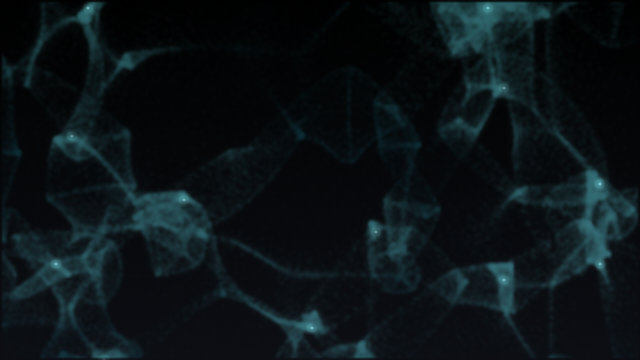
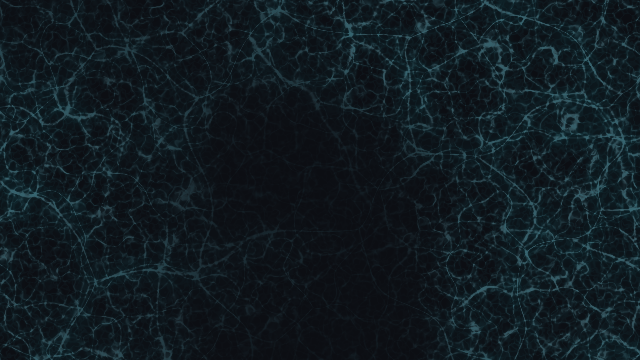
Cosmic web: sharp filaments from moving cell edges on several scales, drawn on the video card, instead of the gas simulation; the threads slowly change their shape

diff --git a/effects/cosmic-web/index.js b/effects/cosmic-web/index.js
@@ -1,4 +1,4 @@
-// Cosmic web (simai.effect 1.1.0; dark scheme only): a dark gas gathers into filaments and nodes, stars light up in the nodes, and bubbles of light grow until the web is lit.
+// Cosmic web (simai.effect 1.1.0; dark scheme only): fine, sharp filaments fill the area round dark voids and slowly change their shape.
 //
 // The lifecycle is the catalogue template's: one canvas in the host, devicePixelRatio capped at 2,
 // a seeded scene (the same picture on every mount at the defaults), one still frame for reduced
@@ -45,144 +45,139 @@ function readTones(host, scheme) {
   return tones;
 }
 
-// The cosmic web: a dark, nearly even gas gathers along the flows of a random field; where the flows
-// cross, filaments and nodes form by themselves (the Zel'dovich approximation of how matter clumps).
-// In the densest nodes the first stars light up, and round them bubbles of light grow and merge until
-// the whole web is lit. Then it fades, and a new web begins. The pointer is a mass that draws matter
-// to itself; a click lights a new star.
-const PERIOD = 44;
+// The cosmic web: fine, sharp filaments on several scales fill the area, round dark voids. They are
+// the edges between cells whose points slowly move, so the threads part, join and find a new shape.
+// Drawn on the video card, sharp at any size; without one it stays a still picture.
+// The pointer lights the web round it; a click sends a ring of light through it.
+const FRAGMENT = `precision highp float;
+uniform vec2 R; uniform float T, S, K, O, V; uniform vec3 G, W, L, H, M; uniform vec3 P[4];
+const mat2 Q = mat2(.8, .6, -.6, .8);
+float h(vec2 p) { p = fract(p * vec2(123.34, 456.21)); p += dot(p, p + 45.32); return fract(p.x * p.y); }
+float n(vec2 p) {
+  vec2 i = floor(p), f = fract(p); f = f * f * f * (f * (f * 6. - 15.) + 10.);
+  return mix(mix(h(i), h(i + vec2(1, 0)), f.x), mix(h(i + vec2(0, 1)), h(i + vec2(1, 1)), f.x), f.y);
+}
+vec2 g2(vec2 p) { return vec2(h(p), h(p + 17.3)); }
+// The edge between two cells: near zero on a thread. The points of the cells move, so the threads do.
+float edge(vec2 p, float t) {
+  vec2 i = floor(p), f = fract(p);
+  float a = 9., b = 9.;
+  for (float y = -1.; y < 2.; y += 1.) for (float x = -1.; x < 2.; x += 1.) {
+    vec2 c = vec2(x, y), o = g2(i + c), r = c + .5 + .42 * sin(t + 6.283 * o) - f;
+    float d = dot(r, r);
+    if (d < a) { b = a; a = d; } else if (d < b) b = d;
+  }
+  return sqrt(b) - sqrt(a);
+}
+void main() {
+  vec2 c = vec2(gl_FragCoord.x, R.y - gl_FragCoord.y), p = c / S;
+  float a = .8, b = 1., line = 0., haze = 0., t = T * .16;
+  vec2 q = p + 137.;
+  for (float i = 0.; i < 6.; i += 1.) {
+    if (i >= O) break;
+    // Each layer's threads wander a little, so no thread runs straight.
+    vec2 w = q + (vec2(n(q * 2.3), n(q * 2.3 + 9.)) - .5) * .5;
+    float e = edge(w, t * (1. + i * .35) + i * 3.);
+    line += a * (1. - smoothstep(.0, .022 * b, e));
+    haze += a * (1. - smoothstep(.0, .35, e));
+    q = Q * q * 2.13 + 11.;
+    b *= 2.13;
+    a *= .84;
+  }
+  float gap = smoothstep(V - .22, V + .22, n(p * .55 - T * .012) * .65 + n(p * 1.4 + 3. + T * .017) * .35);
+  float glow = 0.;
+  if (M.z > 0.) glow += M.z * exp(-dot(c - M.xy, c - M.xy) / (S * S * 1.2));
+  for (int i = 0; i < 4; i += 1) if (P[i].z >= 0.) {
+    float d = length(c - P[i].xy) - P[i].z * S * 2.2;
+    glow += exp(-d * d / (S * S * .15)) * max(0., 1. - P[i].z / 3.);
+  }
+  vec3 col = G + (W * haze * .2 * gap + L * pow(min(line, 1.4), 1.7) * (.3 + .7 * gap) * .42 + H * pow(min(line, 1.), 5.) * gap * .25) * K * (1. + glow * 1.4);
+  gl_FragColor = vec4(col, 1.);
+}`;
 const SCENE = {
-  home: 'dark', seed: 71, fresh: true, start: PERIOD * 0.72, reseed: ['density', 'scale'],
+  home: 'dark', seed: 71, fresh: true, start: 30,
   tones: (read) => {
     const r = (name, tone, hex) => read(`--sf-${name}-${tone}`, hex);
     return {
-      ground: r('neutral', 4, '#0c0e13'), deep: r('neutral', 0, '#000000'),
-      cyan: {web: mixc(r('primary', 50, '#0074ec'), r('success', 60, '#3ea05a'), 0.45), lit: mixc(r('primary', 70, '#7aabff'), r('success', 70, '#4cbb6f'), 0.45), hot: r('neutral', 98, '#faf9fe')},
-      fire: {web: r('warning', 30, '#6f3800'), lit: r('warning', 70, '#f19d47'), hot: r('warning', 95, '#ffeee1')},
-      theme: {web: r('primary', 40, '#005bbe'), lit: r('primary', 70, '#7aabff'), hot: r('primary', 95, '#ecf0ff')},
+      ground: r('neutral', 4, '#0c0e13'),
+      cyan: {web: mixc(r('primary', 40, '#005bbe'), r('success', 40, '#006d34'), 0.5), lit: mixc(r('primary', 60, '#4d8eff'), r('success', 60, '#3ea05a'), 0.45), hot: r('neutral', 98, '#faf9fe')},
+      fire: {web: r('warning', 30, '#6f3800'), lit: r('warning', 60, '#d1872c'), hot: r('warning', 95, '#ffeee1')},
+      theme: {web: r('primary', 30, '#00458f'), lit: r('primary', 70, '#7aabff'), hot: r('primary', 95, '#ecf0ff')},
     };
   },
   setup(env) {
-    const {w, h, values} = env;
-    const cols = Math.max(1, Math.ceil(w / 2)), rows = Math.max(1, Math.ceil(h / 2));
-    const sheet = () => new OffscreenCanvas(cols, rows);
-    const st = {cols, rows, rho: new Float32Array(cols * rows), soft: new Float32Array(cols * rows), image: new ImageData(cols, rows), web: sheet(), dim: sheet(), lit: sheet(), mask: sheet(), glow: new OffscreenCanvas(Math.ceil(cols / 3), Math.ceil(rows / 3)), cycle: null, extra: [], pull: 0};
-    st.px = new Uint32Array(st.image.data.buffer);
-    // Density (in sixteenths of the even gas) to a white pixel's opacity, worked out once.
-    st.light = Uint32Array.from({length: 512}, (_, i) => ((170 * (1 - Math.exp(-0.15 * (i / 16) ** 1.35))) << 24 | 0xffffff) >>> 0);
-    // As fine as the density asks, but no more than about 90 000 grains on any area.
-    st.gap = Math.max(2.8 - values.density / 100 * 1.4, Math.sqrt(w * h * 1.6 / 90000));
-    st.L = Math.min(w, h * 1.7) * (0.1 + values.scale / 100 * 0.6);
+    const ratio = env.ctx.canvas.width / env.w, st = {rings: [], pull: 0};
+    env.gl ??= card();
+    if (env.gl) { env.gl.gl.canvas.width = env.ctx.canvas.width; env.gl.gl.canvas.height = env.ctx.canvas.height; }
+    st.ratio = ratio;
+    st.cell = (40 + env.values.scale * 3) * ratio;
+    st.octaves = 3 + Math.round(env.values.density / 100 * 3);
     return st;
   },
-  click(env, x, y) { const st = env.state; st.extra.push({x, y, t: st.t ?? 0}); },
+  click(env, x, y) { const st = env.state; st.rings.push({x: x * st.ratio, y: y * st.ratio, t: st.t ?? 0}); st.rings = st.rings.slice(-4); },
   draw(env, t) {
-    const {ctx, w, h, tones, state: st, values, pointer} = env;
-    const k = values.intensity / 100, P = tones[values.palette] ?? tones.cyan;
+    const {ctx, w, h, tones, state: st, values, pointer} = env, k = values.intensity / 100, P = tones[values.palette] ?? tones.cyan, g = env.gl;
     st.t = t;
-    const cycle = Math.floor(t / PERIOD), u = t / PERIOD - cycle;
-    if (cycle !== st.cycle) { st.cycle = cycle; st.extra = []; lay(env, st, 71 + env.salt + cycle * 13); }
-    // Gravity's clock: first threads already showing, quick at first, then a slow thickening. The cycle fades in and out.
-    const D = 0.3 + 0.7 * smooth(clamp(u / 0.6, 0, 1)) + Math.max(0, u - 0.6) * 0.15, fade = Math.min(1, u / 0.05, (1 - u) / 0.07);
-    st.pull += ((pointer.on ? 1 : 0) - st.pull) * 0.06;
-    const {rho, n, qx, qy, dx, dy, cols, rows, px} = st, mx = pointer.x * w, my = pointer.y * h, reach = st.L * 0.5, pull = st.pull * 0.45;
-    rho.fill(0);
-    for (let i = 0; i < n; i += 1) {
-      let x = qx[i] + dx[i] * D, y = qy[i] + dy[i] * D;
-      if (pull > 0.01) {
-        const ax = mx - x, ay = my - y, d = Math.abs(ax) + Math.abs(ay);
-        if (d < reach) { const g = pull * (1 - d / reach); x += ax * g; y += ay * g; }
-      }
-      if (x < 0 || y < 0 || x >= w || y >= h) continue;
-      rho[(y >> 1) * cols + (x >> 1)] += 1;
-    }
-    // Each cell shares with its neighbours, so the gas has no grain.
-    const soft = st.soft;
-    for (let y = 1; y < rows - 1; y += 1) for (let x = 1, o = y * cols + 1; x < cols - 1; x += 1, o += 1) soft[o] = (rho[o] * 4 + (rho[o - 1] + rho[o + 1] + rho[o - cols] + rho[o + cols]) * 2 + rho[o - cols - 1] + rho[o - cols + 1] + rho[o + cols - 1] + rho[o + cols + 1]) / 16;
-    // Density to light: a thin gas stays faint, a filament is bright.
-    const scale = 16 / (4 / (st.gap * st.gap)), light = st.light;
-    for (let i = 0; i < px.length; i += 1) { const v = soft[i] * scale | 0; px[i] = light[v > 511 ? 511 : v]; }
-    st.web.getContext('2d').putImageData(st.image, 0, 0);
-    const tint = (sheet, colour) => {
-      const c = sheet.getContext('2d');
-      c.globalCompositeOperation = 'copy'; c.drawImage(st.web, 0, 0);
-      c.globalCompositeOperation = 'source-in'; c.fillStyle = rgba(colour); c.fillRect(0, 0, cols, rows);
-    };
-    tint(st.dim, P.web); tint(st.lit, P.lit);
-    // Bubbles of light round the stars: they grow from their birth and merge.
-    const m = st.mask.getContext('2d'), stars = [];
-    m.clearRect(0, 0, cols, rows);
-    const bubble = (x, y, r, a) => {
-      const g = m.createRadialGradient(x / 2, y / 2, 0, x / 2, y / 2, r / 2);
-      g.addColorStop(0, `rgba(0,0,0,${a})`); g.addColorStop(0.6, `rgba(0,0,0,${a * 0.75})`); g.addColorStop(1, 'rgba(0,0,0,0)');
-      m.fillStyle = g; m.fillRect(x / 2 - r / 2, y / 2 - r / 2, r, r);
-    };
-    for (const node of st.nodes) {
-      const age = u - node.born;
-      if (age <= 0) continue;
-      const x = node.x, y = node.y;
-      bubble(x, y, st.L * (0.12 + age * 2.6), 1);
-      stars.push([x, y, Math.min(1, age * 30)]);
-    }
-    for (const one of st.extra) { const age = (t - one.t) / PERIOD; bubble(one.x, one.y, st.L * (0.12 + age * 2.6), 1); stars.push([one.x, one.y, Math.min(1, age * 30)]); }
-    const l = st.lit.getContext('2d');
-    l.globalCompositeOperation = 'destination-in'; l.drawImage(st.mask, 0, 0);
-    // The picture: the dark web, the lit part over it, a soft bloom, the stars.
-    const g = ctx.createLinearGradient(0, 0, 0, h);
-    g.addColorStop(0, rgba(tones.deep)); g.addColorStop(1, rgba(tones.ground));
-    ctx.globalCompositeOperation = 'source-over'; ctx.globalAlpha = 1;
-    ctx.fillStyle = g; ctx.fillRect(0, 0, w, h);
-    ctx.imageSmoothingQuality = 'high';
-    ctx.globalCompositeOperation = 'lighter';
-    ctx.globalAlpha = fade * (0.2 + k * 0.3); ctx.drawImage(st.dim, 0, 0, w, h);
-    ctx.globalAlpha = fade * (0.12 + k * 0.33); ctx.drawImage(st.lit, 0, 0, w, h);
-    const b = st.glow.getContext('2d');
-    b.globalCompositeOperation = 'copy'; b.imageSmoothingQuality = 'high'; b.drawImage(st.lit, 0, 0, st.glow.width, st.glow.height);
-    ctx.globalAlpha = fade * k * 0.3; ctx.drawImage(st.glow, 0, 0, w, h);
-    ctx.globalAlpha = 1;
-    for (const [x, y, a] of stars) {
-      const r = Math.max(5, st.L * 0.035), s = ctx.createRadialGradient(x, y, 0, x, y, r);
-      s.addColorStop(0, rgba(P.hot, a * fade * 0.9 * k)); s.addColorStop(0.2, rgba(P.lit, a * fade * 0.4 * k)); s.addColorStop(1, rgba(P.lit, 0));
-      ctx.fillStyle = s; ctx.fillRect(x - r, y - r, r * 2, r * 2);
-    }
+    st.pull += ((pointer.on ? 0.9 : 0) - st.pull) * 0.08;
+    if (!g) { flat(env, st, P, k); return; }
+    const {gl, u} = g, unit = (c) => c.map((v) => v / 255);
+    gl.viewport(0, 0, gl.canvas.width, gl.canvas.height);
+    gl.uniform2f(u.R, gl.canvas.width, gl.canvas.height);
+    gl.uniform1f(u.T, t + env.salt % 1000);
+    gl.uniform1f(u.S, st.cell);
+    // More threads, or finer ones, light more of the area: each is dimmer.
+    gl.uniform1f(u.K, (0.13 + k * 0.35) * (5 / st.octaves) ** 1.5 * Math.min(1, st.cell / st.ratio / 160) ** 0.3);
+    gl.uniform1f(u.O, st.octaves);
+    gl.uniform1f(u.V, 0.42 - values.density / 100 * 0.08);
+    gl.uniform3fv(u.G, unit(tones.ground)); gl.uniform3fv(u.W, unit(P.web)); gl.uniform3fv(u.L, unit(P.lit)); gl.uniform3fv(u.H, unit(P.hot));
+    gl.uniform3f(u.M, pointer.x * w * st.ratio, pointer.y * h * st.ratio, st.pull);
+    const rings = new Float32Array(12).fill(-1);
+    st.rings.forEach((one, i) => { rings[i * 3] = one.x; rings[i * 3 + 1] = one.y; rings[i * 3 + 2] = (t - one.t) * 0.9; });
+    gl.uniform3fv(u.P, rings);
+    gl.drawArrays(gl.TRIANGLES, 0, 3);
+    ctx.globalCompositeOperation = 'copy';
+    const frame = gl.canvas.transferToImageBitmap();
+    ctx.drawImage(frame, 0, 0, w, h);
+    frame.close();
     ctx.globalCompositeOperation = 'source-over';
   },
 };
-// A new web: a field of three scales on a coarse lattice, each grain of gas moved along its slope;
-// the densest places where they end up are where the stars will be.
-function lay(env, st, seed) {
-  const {w, h} = env, random = rng(seed), L = st.L, gap = st.gap, margin = L * 0.6, ox = random() * 1000, oy = random() * 1000;
-  const cell = 6, lw = Math.ceil((w + margin * 2) / cell) + 3, lh = Math.ceil((h + margin * 2) / cell) + 3, phi = new Float32Array(lw * lh);
-  for (let j = 0; j < lh; j += 1) for (let i = 0; i < lw; i += 1) {
-    const x = i * cell / L + ox, y = j * cell / L + oy;
-    phi[j * lw + i] = noise2(x, y) + 0.5 * noise2(x * 2.1 + 7, y * 2.1 + 3) + 0.25 * noise2(x * 4.3 + 1, y * 4.3 + 9);
+// The video card's side: one program on its own canvas, kept for the life of the area.
+function card() {
+  const canvas = new OffscreenCanvas(1, 1), gl = canvas.getContext('webgl', {antialias: false, alpha: false, powerPreference: 'low-power'});
+  if (!gl) return null;
+  const shader = (type, code) => { const s = gl.createShader(type); gl.shaderSource(s, code); gl.compileShader(s); return s; };
+  const program = gl.createProgram();
+  gl.attachShader(program, shader(gl.VERTEX_SHADER, 'attribute vec2 a; void main() { gl_Position = vec4(a, 0., 1.); }'));
+  gl.attachShader(program, shader(gl.FRAGMENT_SHADER, FRAGMENT));
+  gl.linkProgram(program);
+  if (!gl.getProgramParameter(program, gl.LINK_STATUS)) return null;
+  gl.useProgram(program);
+  gl.bindBuffer(gl.ARRAY_BUFFER, gl.createBuffer());
+  gl.bufferData(gl.ARRAY_BUFFER, new Float32Array([-1, -1, 3, -1, -1, 3]), gl.STATIC_DRAW);
+  const a = gl.getAttribLocation(program, 'a');
+  gl.enableVertexAttribArray(a);
+  gl.vertexAttribPointer(a, 2, gl.FLOAT, false, 0, 0);
+  const u = {};
+  for (const name of ['R', 'T', 'S', 'K', 'O', 'V', 'G', 'W', 'L', 'H', 'M', 'P']) u[name] = gl.getUniformLocation(program, name);
+  return {gl, u};
+}
+// Without a video card: the same kind of web as one still picture, drawn once in a small buffer.
+function flat(env, st, P, k) {
+  const {ctx, w, h, tones} = env;
+  if (!st.picture) {
+    const cols = Math.ceil(w / 3), rows = Math.ceil(h / 3), image = new ImageData(cols, rows), cell = st.cell / st.ratio / 3;
+    for (let y = 0; y < rows; y += 1) for (let x = 0; x < cols; x += 1) {
+      let a = 0.5, s = 0, weight = 1, px = x / cell + noise2(x / cell, y / cell), py = y / cell + noise2(y / cell + 7, x / cell);
+      for (let i = 0; i < st.octaves; i += 1) { const r = (1 - Math.abs(2 * noise2(px, py) - 1)) ** 2; s += a * r * weight; weight = clamp(r * 1.7, 0, 1); px = px * 1.62 - py * 1.22; py = px * 0.4 + py * 1.62; a *= 0.58; }
+      const c = mixc(mixc(tones.ground, P.web, smooth(clamp((s - 0.12) / 0.5, 0, 1)) * (0.25 + k * 0.6)), P.lit, smooth(clamp((s - 0.42) / 0.53, 0, 1)) ** 2.2 * (0.25 + k * 0.6)), o = (y * cols + x) * 4;
+      image.data[o] = c[0]; image.data[o + 1] = c[1]; image.data[o + 2] = c[2]; image.data[o + 3] = 255;
+    }
+    st.picture = new OffscreenCanvas(cols, rows);
+    st.picture.getContext('2d').putImageData(image, 0, 0);
   }
-  const n = Math.ceil((w + margin * 2) / gap) * Math.ceil((h + margin * 2) / gap);
-  if (st.n !== n) { st.n = n; st.qx = new Float32Array(n); st.qy = new Float32Array(n); st.dx = new Float32Array(n); st.dy = new Float32Array(n); }
-  const per = Math.ceil((w + margin * 2) / gap), push = L * L / (2 * cell) * 0.24;
-  for (let i = 0; i < n; i += 1) {
-    const x = (i % per + random()) * gap, y = (Math.floor(i / per) + random()) * gap;
-    const fx = x / cell, fy = y / cell, a = Math.min(lw - 3, Math.max(1, Math.floor(fx))), b = Math.min(lh - 3, Math.max(1, Math.floor(fy))), tx = fx - a, ty = fy - b;
-    // The slope at a lattice point, blended between the four round the grain.
-    const slope = (o, step) => phi[o + step] - phi[o - step];
-    const at = (step) => mix(mix(slope(b * lw + a, step), slope(b * lw + a + 1, step), tx), mix(slope((b + 1) * lw + a, step), slope((b + 1) * lw + a + 1, step), tx), ty);
-    st.qx[i] = x - margin; st.qy[i] = y - margin;
-    st.dx[i] = -at(1) * push; st.dy[i] = -at(lw) * push;
-  }
-  // Where the matter ends up: the densest cells, kept apart from each other.
-  const size = 16, gw = Math.ceil(w / size), gh = Math.ceil(h / size), count = new Float32Array(gw * gh);
-  for (let i = 0; i < n; i += 1) {
-    const x = st.qx[i] + st.dx[i], y = st.qy[i] + st.dy[i];
-    if (x >= 0 && y >= 0 && x < w && y < h) count[Math.floor(y / size) * gw + Math.floor(x / size)] += 1;
-  }
-  const order = Array.from(count.keys()).sort((p, q) => count[q] - count[p]), nodes = [], apart = L * 0.32, most = 12 + Math.round(w * h / 60000);
-  for (const c of order) {
-    const x = (c % gw + 0.5) * size, y = (Math.floor(c / gw) + 0.5) * size;
-    if (nodes.some((one) => Math.hypot(one.x - x, one.y - y) < apart)) continue;
-    nodes.push({x, y, born: 0.5 + nodes.length / most * 0.32});
-    if (nodes.length >= most) break;
-  }
-  st.nodes = nodes;
+  ctx.imageSmoothingQuality = 'high';
+  ctx.drawImage(st.picture, 0, 0, w, h);
 }
 
 export function mount(host, settings, context = {}) {
@@ -306,6 +301,7 @@ export function mount(host, settings, context = {}) {
     pause() { paused = true; stop(); },
     resume() { paused = false; schedule(); },
     destroy() {
+      env.gl?.gl.getExtension('WEBGL_lose_context')?.loseContext();
       stop();
       sizes.disconnect();
       screen.disconnect();

diff --git a/docs/STATUS.md b/docs/STATUS.md
@@ -41,6 +41,6 @@ Beyond those, the core ships the standard, SF.Effects, the kit, the segmented Bu
 
 ## Effects
 
-There are 34 effects: 19 draw both schemes, 13 dark only and 2 light only. On 2026-10-30 `cosmic-web` («Космическая паутина») came in at the owner's idea: gas gathers into filaments by the Zel'dovich approximation, stars light up in the nodes and bubbles of light merge, in a 44-second cycle; own code, nothing from the Lumina simulation it was inspired by. On 2026-10-30 `digital-rain` («Цифровой дождь») came in at the owner's idea: columns of glyphs running down a dark screen in three depths, the text from the list glyph tide and text flow share, four palettes; `glyph-tide` and `text-flow` got that shared list the same day. On 2026-10-30 `rain-glass` became a street of lights out of focus behind the glass (lamps, neon bars that shift colour and flicker, a crossing whose traffic light stops and lets the cars go, streaks on the wet road), with two views (street, down at the road) and four palettes (blue, neon, amber, monochrome), rain outside, drops that gather and run, and fog that comes back where a finger wipes it; its earlier version 2.3.0 stays beside it as `rain-glass-classic` for comparison until the owner chooses. Four came in on 2026-10-29 from the owner's lists of physics and chemistry ideas: `chladni` (sand gathering on the still lines of a singing plate; the note changes every few seconds), `bz-waves` («Химические волны», rings and spirals of the Belousov–Zhabotinsky reaction in Barkley's model), `cloud-chamber` (particle tracks flashing in and melting away in mist; dark only) and `benard-cells` (convection cells like a honeycomb, flakes running from each centre to the rim). The same day `murmuration` gained a flock size setting and a bigger flock by default, and `confetti` falls slower, with fewer pieces turning more gently. `confetti` (popper confetti falling from above; a press fires a popper upwards) and `murmuration` (a flock of starlings moving as one; the pointer is a falcon, a click startles them) came in on 2026-10-29 at the owner's request. In the seventh review `paper-facets` gained a dark scheme and a new sheet on each load, `rain-glass` a darker road, lamps that fade with distance and three options (a traffic light that tints the road, a blinking neon sign, rare lightning), `fabric-grid` a body that grows heavier while the button is held, `particle-shapes` four gas motions (Brownian, sand wind, vortex, snowfall), and `sand-picture` solid colour bands on rounded dunes. In the sixth review `sand-picture` was rebuilt after a real sand picture (sand runs down from above in streams onto low dunes of the theme's main and text colours, and the picture sinks slowly), `fabric-grid` lost its sun and planets for a grid edge to edge with waves of its own, `paper-facets` gained a facet shimmer that the pointer quickens, `watercolor` lays its stains in a new order on each load (a still frame keeps the seeded one), a new text in `particle-shapes` gathers at once, and `rain-glass` gained rows of street lamps (warm, white, mixed or none). In the fourth review `sand-picture` came in, `signals` became `world-routes` («Маршруты мира», signals or planes between the capitals), `star-flight` gained a throttle and warp on click and hold, `fabric-grid` became a sun with planets, `particle-shapes` returned to its first cycle with Brownian motion, `aurora-curtain` gained a contrast setting and `rain-glass` a traffic setting. In the second review `embers`, `blinds`, `origami`, `dust-beam` and `relief-wave` were dropped, and `signals`, `watercolor`, `fabric-grid`, `blueprint` and `particle-shapes` gained clicks and press-drags. Thirteen came in on 2026-10-28 from the owner's list of ideas; `wind-lines`, `deep-ocean` and `nebula-mesh` were dropped, `mist-gradient` became the two-scheme «Цветная дымка», and `rain-glass` became a fogged window. `star-flight` and `text-flow` come from the Larena sign-in picture (owner, 2026-10-28); `liquid-chrome` was removed the same day. `constellation-net` is dark only (owner, 2026-10-28: a light starry sky reads as a mistake). `ink-threads`, `foam-cells` and `guilloche` were removed (owner, 2026-10-19). Schemes are in the manifests; the order, descriptions and tags are in `effects/policy.json`; the per-effect kit results are in `catalogue/kit.json`.
+There are 34 effects: 19 draw both schemes, 13 dark only and 2 light only. On 2026-10-30 `cosmic-web` («Космическая паутина») came in at the owner's idea: sharp ridged filaments on the video card that slowly change their shape, a still picture without one; own code, nothing from the Lumina simulation it was inspired by. On 2026-10-30 `digital-rain` («Цифровой дождь») came in at the owner's idea: columns of glyphs running down a dark screen in three depths, the text from the list glyph tide and text flow share, four palettes; `glyph-tide` and `text-flow` got that shared list the same day. On 2026-10-30 `rain-glass` became a street of lights out of focus behind the glass (lamps, neon bars that shift colour and flicker, a crossing whose traffic light stops and lets the cars go, streaks on the wet road), with two views (street, down at the road) and four palettes (blue, neon, amber, monochrome), rain outside, drops that gather and run, and fog that comes back where a finger wipes it; its earlier version 2.3.0 stays beside it as `rain-glass-classic` for comparison until the owner chooses. Four came in on 2026-10-29 from the owner's lists of physics and chemistry ideas: `chladni` (sand gathering on the still lines of a singing plate; the note changes every few seconds), `bz-waves` («Химические волны», rings and spirals of the Belousov–Zhabotinsky reaction in Barkley's model), `cloud-chamber` (particle tracks flashing in and melting away in mist; dark only) and `benard-cells` (convection cells like a honeycomb, flakes running from each centre to the rim). The same day `murmuration` gained a flock size setting and a bigger flock by default, and `confetti` falls slower, with fewer pieces turning more gently. `confetti` (popper confetti falling from above; a press fires a popper upwards) and `murmuration` (a flock of starlings moving as one; the pointer is a falcon, a click startles them) came in on 2026-10-29 at the owner's request. In the seventh review `paper-facets` gained a dark scheme and a new sheet on each load, `rain-glass` a darker road, lamps that fade with distance and three options (a traffic light that tints the road, a blinking neon sign, rare lightning), `fabric-grid` a body that grows heavier while the button is held, `particle-shapes` four gas motions (Brownian, sand wind, vortex, snowfall), and `sand-picture` solid colour bands on rounded dunes. In the sixth review `sand-picture` was rebuilt after a real sand picture (sand runs down from above in streams onto low dunes of the theme's main and text colours, and the picture sinks slowly), `fabric-grid` lost its sun and planets for a grid edge to edge with waves of its own, `paper-facets` gained a facet shimmer that the pointer quickens, `watercolor` lays its stains in a new order on each load (a still frame keeps the seeded one), a new text in `particle-shapes` gathers at once, and `rain-glass` gained rows of street lamps (warm, white, mixed or none). In the fourth review `sand-picture` came in, `signals` became `world-routes` («Маршруты мира», signals or planes between the capitals), `star-flight` gained a throttle and warp on click and hold, `fabric-grid` became a sun with planets, `particle-shapes` returned to its first cycle with Brownian motion, `aurora-curtain` gained a contrast setting and `rain-glass` a traffic setting. In the second review `embers`, `blinds`, `origami`, `dust-beam` and `relief-wave` were dropped, and `signals`, `watercolor`, `fabric-grid`, `blueprint` and `particle-shapes` gained clicks and press-drags. Thirteen came in on 2026-10-28 from the owner's list of ideas; `wind-lines`, `deep-ocean` and `nebula-mesh` were dropped, `mist-gradient` became the two-scheme «Цветная дымка», and `rain-glass` became a fogged window. `star-flight` and `text-flow` come from the Larena sign-in picture (owner, 2026-10-28); `liquid-chrome` was removed the same day. `constellation-net` is dark only (owner, 2026-10-28: a light starry sky reads as a mistake). `ink-threads`, `foam-cells` and `guilloche` were removed (owner, 2026-10-19). Schemes are in the manifests; the order, descriptions and tags are in `effects/policy.json`; the per-effect kit results are in `catalogue/kit.json`.
 
 Every effect's defaults pass the 1.1 contrast rule in each scheme it draws. `scripts/contrast-probe.mjs` measures it the way the kit does and takes other defaults with `--set`, for tuning.

diff --git a/effects/cosmic-web/README.md b/effects/cosmic-web/README.md
@@ -1,6 +1,6 @@
 # Cosmic web (`cosmic-web`)
 
-A dark, nearly even gas gathers into filaments and nodes; stars light up in the densest nodes and bubbles of light grow and merge until the web is lit. Then it fades and a new web begins.
+Fine, sharp filaments fill the area round dark voids and slowly part, join and find a new shape. Drawn on the video card; without one it is a still picture.
 
 - **Russian name:** Космическая паутина
 - **Version:** 0.1.0, simai.effect 1.1.0
@@ -14,10 +14,10 @@ A dark, nearly even gas gathers into filaments and nodes; stars light up in the 
 |:---|:---|:---|:---|:---|
 | `speed` | integer | 10–300 % | `100` | Speed |
 | `intensity` | integer | 10–100 % | `70` | Intensity |
-| `density` | integer | 10–100 % | `50` | Density |
+| `density` | integer | 10–100 % | `50` | Thread density. How many fine threads, and how few voids |
 | `scale` | integer | 10–100 % | `40` | Scale. A fine web or a large one |
 | `palette` | choice | `cyan`, `fire`, `theme` | `"cyan"` | Palette |
-| `interactive` | boolean | — | `true` | React to the pointer. The pointer draws matter to itself; a click lights a star |
+| `interactive` | boolean | — | `true` | React to the pointer. The pointer lights the web; a click sends a ring of light through it |
 
 ## Schemes
 
